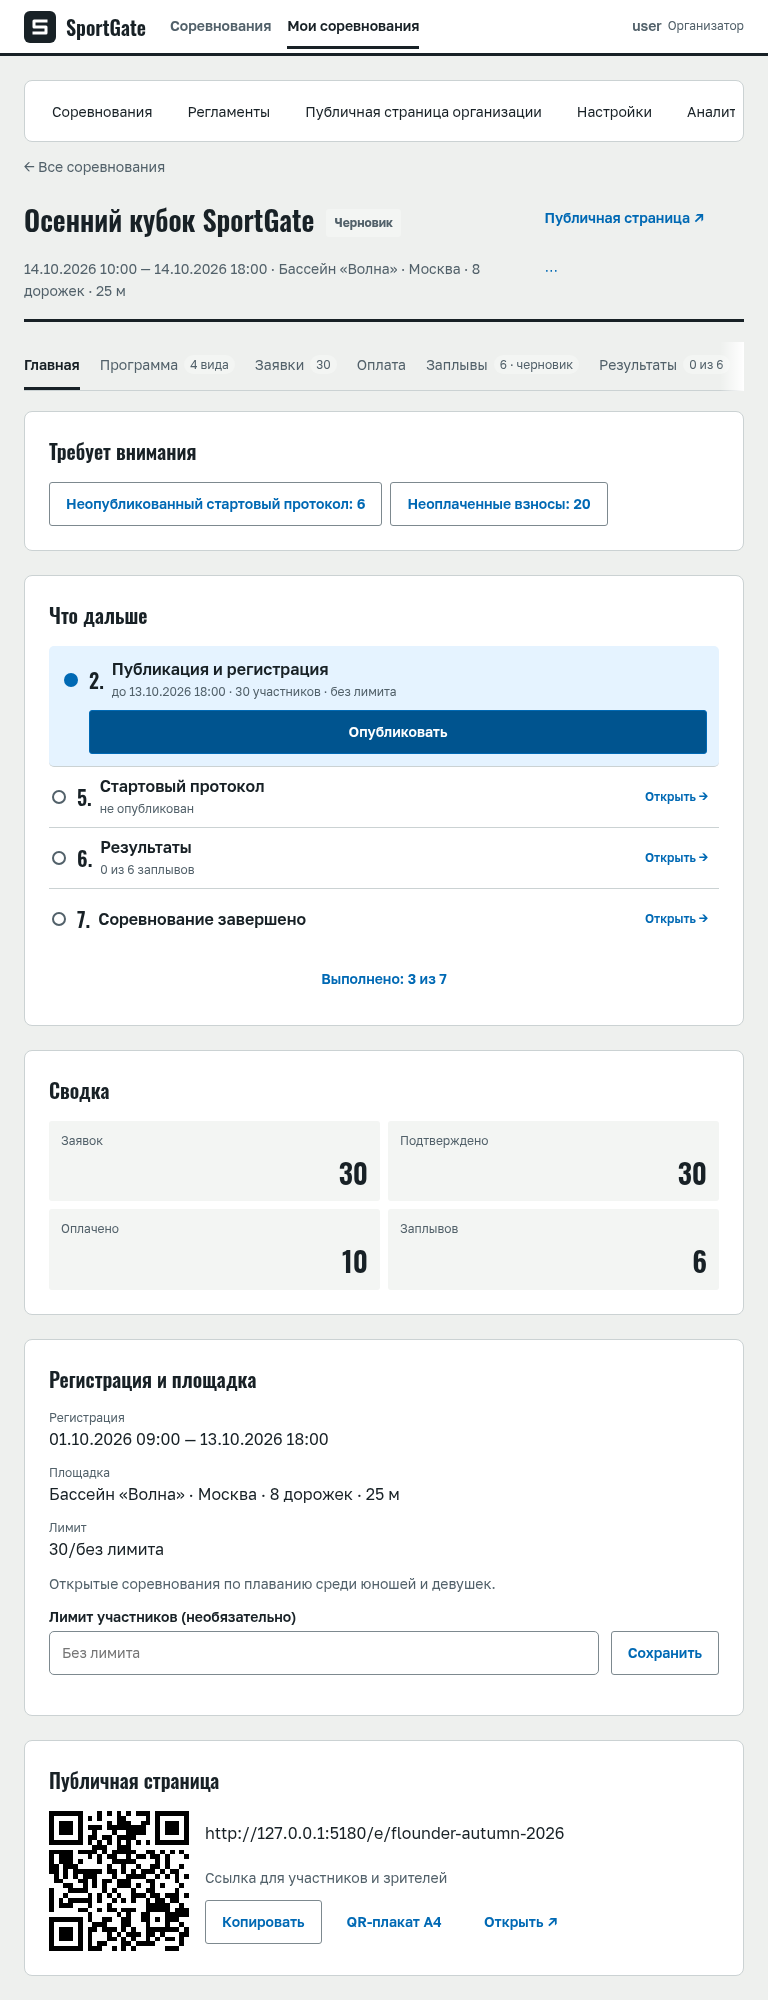
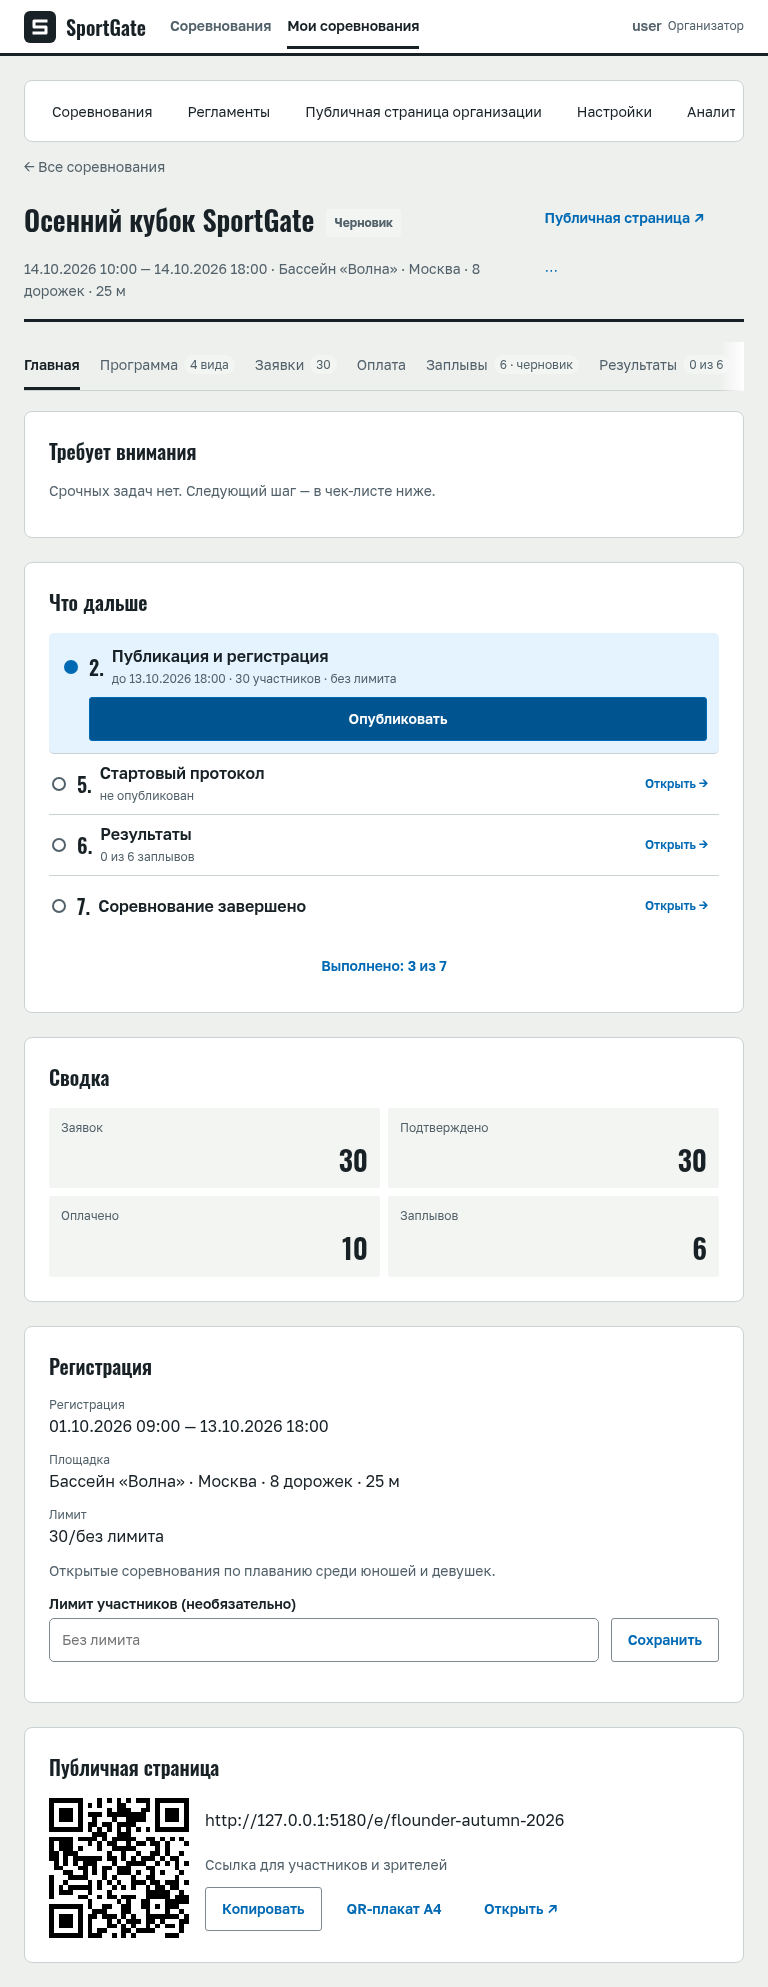
fix(organizer): address first overview design review

diff --git a/sport-platform/frontend/src/features/organizer/EventChecklist.test.tsx b/sport-platform/frontend/src/features/organizer/EventChecklist.test.tsx
@@ -1,4 +1,4 @@
-import { fireEvent, render, screen, within } from '@testing-library/react'
+import { fireEvent, render, screen } from '@testing-library/react'
 import { MemoryRouter } from 'react-router'
 import { expect, it, vi } from 'vitest'
 import { createFixtures } from '../../mocks/fixtures'
@@ -44,19 +44,58 @@ it('keeps a lifecycle action visible even when its registration step is done', (
   const onTransition = vi.fn()
   render(<MemoryRouter><EventChecklist context={context} onTransition={onTransition} action={{ label: 'Закрыть регистрацию', step: 1 }} /></MemoryRouter>)
   const current = screen.getByLabelText('текущий шаг').parentElement!
-  expect(within(current).getByRole('button', { name: 'Закрыть регистрацию' })).toBeVisible()
+  expect(current).toHaveTextContent('5. Стартовый протокол')
+  const button = screen.getByRole('button', { name: 'Закрыть регистрацию' })
+  expect(button).toBeVisible()
+  expect(button).toBeEnabled()
+  expect(button.closest('li')).not.toHaveAttribute('aria-current')
   fireEvent.click(screen.getByRole('button', { name: 'Закрыть регистрацию' }))
   expect(onTransition).toHaveBeenCalledExactlyOnceWith(1)
   expect(document.querySelectorAll('.fl-btn-primary')).toHaveLength(1)
 })
 
-it('explains why completion is unavailable', () => {
+it('explains earlier work without blocking completion', () => {
   const context = createFixtures()
-  const reason = 'Сначала завершите все заплывы'
-  render(<MemoryRouter><EventChecklist context={context} onTransition={() => {}} action={{ label: 'Завершить соревнование', step: 6, reason }} /></MemoryRouter>)
+  const reason = 'Сначала: шаг 2'
+  const onTransition = vi.fn()
+  render(<MemoryRouter><EventChecklist context={context} onTransition={onTransition} action={{ label: 'Завершить соревнование', step: 6, reason }} /></MemoryRouter>)
   const button = screen.getByRole('button', { name: 'Завершить соревнование' })
-  expect(button).toBeDisabled()
+  expect(button).toBeEnabled()
   expect(button).toHaveAttribute('title', reason)
   expect(button).toHaveAccessibleDescription(reason)
   expect(screen.getByText(reason)).toBeVisible()
+  expect(screen.getByLabelText('текущий шаг').parentElement).toHaveTextContent('2. Публикация и регистрация')
+  fireEvent.click(button)
+  expect(onTransition).toHaveBeenCalledExactlyOnceWith(6)
+})
+
+it('marks the program as current when a draft has no program', () => {
+  const context = createFixtures()
+  context.event.disciplines = []; context.sessions = []
+  render(<MemoryRouter><EventChecklist context={context} onTransition={() => {}} action={{ label: 'Опубликовать', step: 1, reason: 'Сначала: шаг 1' }} /></MemoryRouter>)
+  expect(screen.getByLabelText('текущий шаг').parentElement).toHaveTextContent('1. Программа')
+  const button = screen.getByRole('button', { name: 'Опубликовать' })
+  expect(button.closest('li')).toHaveTextContent('2. Публикация и регистрация')
+  expect(button).toBeEnabled()
+  expect(button).toHaveAccessibleDescription('Сначала: шаг 1')
+  expect(document.querySelectorAll('.fl-btn-primary')).toHaveLength(1)
+})
+
+it('keeps the prerequisite hint visible while busy and blocks only the pending operation', () => {
+  const context = createFixtures()
+  render(<MemoryRouter><EventChecklist context={context} onTransition={() => {}} busy action={{ label: 'Завершить соревнование', step: 6, reason: 'Сначала: шаг 2' }} /></MemoryRouter>)
+  const button = screen.getByRole('button', { name: 'Завершить соревнование' })
+  expect(button).toBeDisabled()
+  expect(button).toHaveAttribute('aria-busy', 'true')
+  expect(button).toHaveAccessibleDescription('Сначала: шаг 2 Дождитесь завершения текущего действия')
+  expect(screen.getByText('Сначала: шаг 2 Дождитесь завершения текущего действия')).toBeVisible()
+})
+
+it('uses the lifecycle action as current when all seven steps are complete', () => {
+  const context = createFixtures(); context.event.status = 'COMPLETED'
+  context.registrations.forEach(r => { r.status = 'CONFIRMED' }); context.heats.forEach(h => { h.status = 'FINISHED' })
+  context.event.disciplines = context.event.disciplines.filter(d => context.heats.some(h => h.eventDisciplineId === d.id))
+  render(<MemoryRouter><EventChecklist context={context} onTransition={() => {}} action={{ label: 'В архив', step: 6 }} /></MemoryRouter>)
+  expect(screen.getByLabelText('текущий шаг').parentElement).toHaveTextContent('7. Соревнование завершено')
+  expect(screen.getByRole('button', { name: 'В архив' })).toBeEnabled()
 })

diff --git a/sport-platform/frontend/src/features/organizer/OrganizerOverviewPage.test.tsx b/sport-platform/frontend/src/features/organizer/OrganizerOverviewPage.test.tsx
@@ -3,14 +3,14 @@ import { fireEvent, render, screen, waitFor, within } from '@testing-library/rea
 import { beforeEach, expect, it, vi } from 'vitest'
 import { ToastProvider } from '../../components/ui/Toast'
 import { createFixtures } from '../../mocks/fixtures'
-import type { OrganizerRegistration } from '../../api/organizer.types'
+import type { Heat, OrganizerRegistration } from '../../api/organizer.types'
 import { OrganizerOverviewPage } from './OrganizerOverviewPage'
 import { publishEvent, closeEventRegistration, openEventRegistration, patchEvent } from '../../api/events.api'
 
 const context = vi.hoisted(() => ({
   event: { id: 'event', status: 'REGISTRATION_OPEN', publicSlug: 'cup', title: 'Кубок', eventStartAt: '2030-06-01T10:00:00Z', eventEndAt: '2030-06-01T18:00:00Z', maxParticipants: 1, disciplines: [] },
   registrations: [{ participantProfileId: 'profile', status: 'CONFIRMED' }] as OrganizerRegistration[],
-  sessions: [], heats: [], accessToken: 'test', busy: false, error: '',
+  sessions: [], heats: [] as Heat[], accessToken: 'test', busy: false, error: '',
   refresh: vi.fn().mockResolvedValue(undefined),
   registerDialog: vi.fn(() => vi.fn()),
   clearError: vi.fn(),
@@ -31,6 +31,7 @@ beforeEach(() => {
   context.event.status = 'REGISTRATION_OPEN'
   context.event.maxParticipants = 1
   context.registrations = [{ participantProfileId: 'profile', status: 'CONFIRMED', paymentStatus: 'PAID' }] as OrganizerRegistration[]
+  context.heats = []
   context.busy = false
   context.error = ''
   vi.clearAllMocks()
@@ -91,6 +92,8 @@ it.each([
   expect(document.querySelectorAll('.fl-btn-primary')).toHaveLength(1)
   expect(screen.getByRole('button', { name: label })).toHaveClass('fl-btn-primary')
   expect(screen.getByRole('button', { name: label })).toBeEnabled()
+  expect(screen.getByRole('button', { name: label })).toHaveAccessibleDescription('Сначала: шаг 1')
+  expect(screen.getByLabelText('текущий шаг').parentElement).toHaveTextContent('1. Программа')
 })
 
 it('publishes only once after confirmation', async () => {
@@ -135,7 +138,7 @@ it('shows a visible reason while a lifecycle action is loading', () => {
   const button = screen.getByRole('button', { name: 'Закрыть регистрацию' })
   expect(button).toBeDisabled()
   expect(button).toHaveAttribute('aria-busy', 'true')
-  expect(button).toHaveAccessibleDescription('Дождитесь завершения текущего действия')
+  expect(button).toHaveAccessibleDescription('Сначала: шаг 1 Дождитесь завершения текущего действия')
 })
 
 it('rejects a past extension date without changing the event', () => {
@@ -169,4 +172,28 @@ it('does not flag waived, refunded or free registrations as unpaid contributions
   const attention = screen.getByRole('region', { name: 'Требует внимания' })
   expect(within(attention).queryByRole('link', { name: /Неоплаченные взносы/ })).not.toBeInTheDocument()
   expect(within(attention).getByText(/Срочных задач нет/)).toBeVisible()
+})
+
+it('uses the visible registration heading as its accessible name', () => {
+  render(<MemoryRouter><OrganizerOverviewPage /></MemoryRouter>)
+  const registration = screen.getByRole('region', { name: 'Регистрация и площадка' })
+  const heading = within(registration).getByRole('heading', { name: 'Регистрация' })
+  expect(heading).toHaveTextContent(/^Регистрация$/)
+  expect(heading).not.toHaveAttribute('aria-label')
+})
+
+it.each([
+  ['DRAFT', false, false], ['PUBLISHED', false, false],
+  ['REGISTRATION_OPEN', false, true], ['REGISTRATION_CLOSED', true, true],
+  ['LIVE', true, true], ['COMPLETED', false, false], ['ARCHIVED', false, false],
+])('limits protocol and payment attention to relevant lifecycle states: %s', (status, protocol, payment) => {
+  const fixture = createFixtures()
+  context.event.status = status
+  context.registrations = fixture.registrations
+  context.heats = fixture.heats
+  render(<MemoryRouter><OrganizerOverviewPage /></MemoryRouter>)
+  const attention = screen.getByRole('region', { name: 'Требует внимания' })
+  expect(!!within(attention).queryByRole('link', { name: /Неопубликованный стартовый протокол/ })).toBe(protocol)
+  expect(!!within(attention).queryByRole('link', { name: /Неоплаченные взносы/ })).toBe(payment)
+  if (!protocol && !payment) expect(within(attention).getByText(/Срочных задач нет/)).toBeVisible()
 })

diff --git a/sport-platform/frontend/src/features/organizer/OrganizerOverviewPage.tsx b/sport-platform/frontend/src/features/organizer/OrganizerOverviewPage.tsx
@@ -10,7 +10,7 @@ import { Notice } from '../../components/ui/Notice'
 import { useToast } from '../../components/ui/Toast'
 import { normalizeStatus } from '../../components/ui/status-dictionary'
 import { useAuth } from '../../app/providers/AuthProvider'
-import { EventChecklist, type ChecklistAction } from './EventChecklist'
+import { EventChecklist, checklistSteps, type ChecklistAction } from './EventChecklist'
 import {
   publishEvent, openEventRegistration, closeEventRegistration,
   completeEvent, archiveEvent, patchEvent,
@@ -78,8 +78,10 @@ export function OrganizerOverviewPage() {
   const base = `/organizer/events/${event.id}`
   const participants = new Set(registrations.filter(r => ['SUBMITTED', 'UNDER_REVIEW', 'CONFIRMED', 'PAID', 'ADMITTED'].includes(r.status)).map(r => r.participantProfileId)).size
   const pending = registrations.filter(r => ['SUBMITTED', 'UNDER_REVIEW'].includes(r.status)).length
-  const unpaid = registrations.filter(r => ['CONFIRMED', 'PAID', 'ADMITTED'].includes(r.status) && !['PAID', 'WAIVED', 'REFUNDED', 'NOT_REQUIRED'].includes(r.paymentStatus)).length
-  const unpublished = heats.filter(h => !isHeatPublished(h.status)).length
+  const unpaid = ['REGISTRATION_OPEN', 'REGISTRATION_CLOSED', 'LIVE'].includes(status)
+    ? registrations.filter(r => ['CONFIRMED', 'PAID', 'ADMITTED'].includes(r.status) && !['PAID', 'WAIVED', 'REFUNDED', 'NOT_REQUIRED'].includes(r.paymentStatus)).length : 0
+  const unpublished = ['REGISTRATION_CLOSED', 'LIVE'].includes(status)
+    ? heats.filter(h => !isHeatPublished(h.status)).length : 0
   const transitions = [
     { states: ['COMPLETED'], label: 'В архив', action: archiveEvent, step: 6 },
     { states: ['DRAFT'], label: 'Опубликовать', action: publishEvent, step: 1 },
@@ -88,8 +90,10 @@ export function OrganizerOverviewPage() {
     { states: ['REGISTRATION_CLOSED', 'LIVE'], label: 'Завершить соревнование', action: completeEvent, step: 6 },
   ]
   const transition = canManage ? transitions.find(t => t.states.includes(status)) : undefined
+  const firstUndone = checklistSteps(context).findIndex(step => !step.done)
   const action: ChecklistAction | undefined = transition && {
     label: transition.label, step: transition.step,
+    reason: firstUndone !== -1 && firstUndone < transition.step ? `Сначала: шаг ${firstUndone + 1}` : undefined,
   }
   useEffect(() => {
     if (params.get('archive') !== '1') return
@@ -158,7 +162,7 @@ export function OrganizerOverviewPage() {
         </EmptyState>}
       </section>
       <section className={`fl-card ${styles.registration}`} aria-label="Регистрация и площадка">
-        <h2 aria-label="Регистрация">Регистрация и площадка</h2>
+        <h2>Регистрация</h2>
         <dl className={styles.details}>
           <KeyValue label="Регистрация">{formatDate(event.registrationOpenAt, event.venue?.timezone)} — {formatDate(event.registrationCloseAt, event.venue?.timezone)}</KeyValue>
           <KeyValue label="Площадка">{event.venue ? `${event.venue.name} · ${event.venue.city} · ${event.venue.lanes ?? '—'} дорожек · ${event.venue.courseLength ?? '—'} м` : 'Площадка не указана'}</KeyValue>

diff --git a/sport-platform/frontend/src/features/organizer/EventChecklist.tsx b/sport-platform/frontend/src/features/organizer/EventChecklist.tsx
@@ -33,12 +33,13 @@ export function EventChecklist({ context, onTransition, action, busy = false }: 
   busy?: boolean
 }) {
   const steps = checklistSteps(context)
-  const current = action?.step ?? steps.findIndex(step => !step.done)
+  const first = steps.findIndex(step => !step.done)
+  const current = first === -1 ? (action?.step ?? -1) : first
   const base = `/organizer/events/${context.event.id}`
   const completed = steps.filter((step, index) => step.done && index !== action?.step)
   function row(step: typeof steps[number], index: number) {
     const active = index === current
-    const reason = busy ? 'Дождитесь завершения текущего действия' : action?.reason
+    const reason = [action?.reason, busy ? 'Дождитесь завершения текущего действия' : undefined].filter(Boolean).join(' ') || undefined
     return <li className={styles.row} key={step.title} aria-current={active ? 'step' : undefined}>
       <StepIcon state={step.done && !active ? 'done' : active ? 'current' : 'pending'} />
       <Link className={styles.stepLink} to={`${base}${step.path}`}>
@@ -46,7 +47,7 @@ export function EventChecklist({ context, onTransition, action, busy = false }: 
         <span>{step.title}{step.summary && <small>{step.summary}</small>}</span>
       </Link>
       {action?.step === index ? <div className={styles.action}>
-        <Button variant="primary" loading={busy} disabled={!!reason} title={reason}
+        <Button variant="primary" loading={busy} disabled={busy} title={reason}
           aria-describedby={reason ? `checklist-reason-${index}` : undefined}
           onClick={() => onTransition(index)}>{action.label}</Button>
         {reason && <small id={`checklist-reason-${index}`}>{reason}</small>}

diff --git a/sport-platform/frontend/src/features/organizer/OverviewPage.module.css b/sport-platform/frontend/src/features/organizer/OverviewPage.module.css
@@ -28,8 +28,8 @@
   .publicLinks { flex: 1; }
   .publicActions { flex-direction: row; }
 }
-@media (min-width: 1366px) {
-  .grid { grid-template-columns: minmax(0, 3fr) minmax(0, 2fr); align-items: start; }
+@media (min-width: 1024px) {
+  .grid { grid-template-columns: minmax(0, 3fr) minmax(320px, 2fr); align-items: start; }
   .checklist { grid-column: 1; grid-row: 1 / 3; }
   .summary { grid-column: 2; grid-row: 1; }
   .registration { grid-column: 1; grid-row: 3; }
